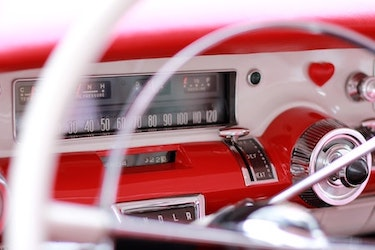
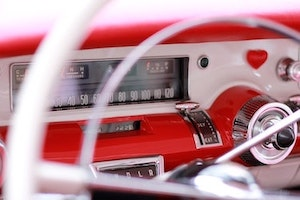
use img-responsiveness to resize portfolio images

diff --git a/assignment2/portfolio.html b/assignment2/portfolio.html
@@ -75,7 +75,7 @@
                 <div class="row">
                     <div class="col-sm-5">
                         <figure class='position-relative rounded img-container m-3'>
-                            <img class="rounded w-100 h-100" src="assets/images/portfolio_images/artistic-blossom-bright-207962.jpg" alt="Hangman`">
+                            <img class="img-responsive rounded w-100 h-100" src="assets/images/portfolio_images/artistic-blossom-bright-207962.jpg" alt="Hangman`">
                             <figcaption class="img-label text-light">Word Guess</figcaption>
                         </figure>
                     </div>

diff --git a/assignment2/assets/css/portfolio.css b/assignment2/assets/css/portfolio.css
@@ -9,8 +9,9 @@
 }
 
 .img-container{
-    width:250px;
-    height:200px;
+    /* width:250px;
+    height:200px; */
+    width:fit-content;
 }
 
 .img-container:hover, .img-container:focus{
